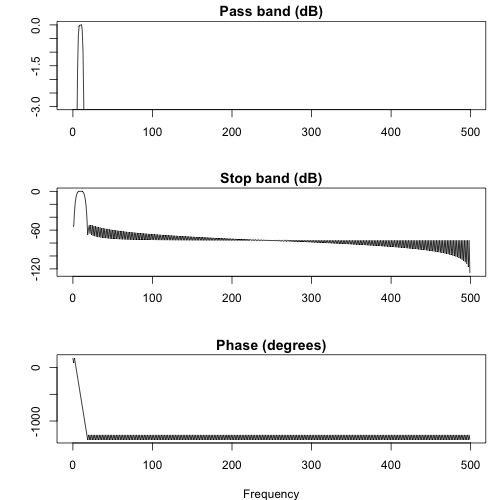
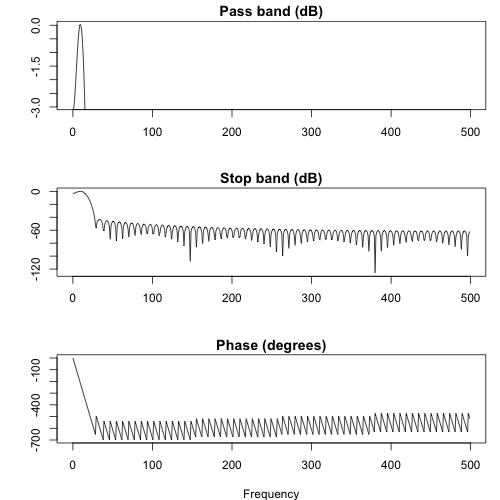
Add fir filter

diff --git a/signal_processing/fir_filter/fir_filter.md b/signal_processing/fir_filter/fir_filter.md
@@ -1,1 +1,91 @@
-R言語を用いてFIRフィルターを実装します。基本的な流れはR言語を用いたIIRフィルターの作成と同じです。
+初心者向きにR言語を用いたFIRフィルターの作成方法をまとめました。基本的な流れは[R言語を用いたIIRフィルターの作成](https://qiita.com/hitomecha/items/80d6e3309aa33941cb5e)とほぼ同じです。
+
+## パッケージの準備
+signal パッケージ[1]を使用し、FIRフィルターを作成します。まず、パッケージをインストールします。
+
+```R
+#signalパッケージのダウンロード
+install.packages("signal")
+#ライブラリーの読み込み
+library("signal")
+```
+
+## 入力データの準備
+入力データは10Hzと50Hzの正弦波の合成波を使用します。
+
+```R
+#入力データの作成（周波数が10Hzと50Hzのサイン波のデータの合成、サンプリング周波数：1kHz、１０秒間のデータ）
+time <- seq(from=0, by=1/1000, length=10000) #時間軸
+data <- sin(2*pi*10*time) + sin(2*pi*50*time)
+#入力データの図示
+plot(time, data, t="l", xlim=c(1, 1.5))
+```
+
+<img src="https://qiita-image-store.s3.amazonaws.com/0/293436/ba610be0-f14a-761c-e13e-4656e1a3682c.png" width=50%>
+
+上図より、2つの周波数の合成波になっています。また、周波数解析を行うと、
+
+```R
+data_fft <- fft(data)
+data_psd <- abs(data_fft)^2
+plot_fft <- seq(from=1/10000, by=1000/10000, to=500)
+#入力データの周波数特性の図示
+plot(plot_fft, data_psd[1:(length(data_psd)/2)], t="l", log="x", xlab="frequency (Hz)", ylab="PSD (1/Hz)")
+```
+<img src="https://qiita-image-store.s3.amazonaws.com/0/293436/c415c59a-4cfa-117f-0958-da7c01fcb98d.png" width=50%>
+
+ピークが2つ（10Hzと50Hz）になっていることがわかります。
+
+## FIRフィルターの設計
+今回はFIRフィルターを実装するために、signalパッケージのfir1()を使用します。5〜15Hzを通すバンドパスフィルターを実装します。
+
+```R
+#バンドパスフィルタの設計
+#FIRフィルターの各パラメータ
+fil_N <- 128 #フィルターの次数
+fs <- 1000  #サンプリング周波数
+fn <- fs/2  #ナイキスト周波数
+fc <- c(5,15) #帯域通過周波数
+fc_norm <- fc/fn  #周波数の正規化
+
+fir_filter <- fir1(fil_N, fc_norm, type="pass")
+```
+
+fir1()では、帯域周波数をナイキスト周波数で割った正規化周波数を使います。typeは、pass, low, high, stopの指定により、様々な種類のフィルターを実装できます。
+
+## フィルター特性の確認
+```R
+freqz(fir_filter, Fs=fs)  #フィルター特性の図示
+```
+
+<img src="https://qiita-image-store.s3.amazonaws.com/0/293436/204628bc-a5d9-7a80-d73b-fc88484a268b.png" width=70%>
+
+5〜15Hzのバンドパスフィルターを設計できました。
+
+
+## 設計したフィルターを入力データに通す
+
+```R
+#設計したフィルターを入力データに適応
+data_fil <- filtfilt(fir_filter, data)
+```
+
+フィルターによる位相遅れを防ぐためにfiltfilt()を使用し、順方向と逆方向の両方の処理を行うゼロ位相デジタルフィルター処理を実装します。
+
+## フィルターを通したデータの確認
+
+```R
+#フィルターを通したデータの図示
+plot(time, data_fil, t="l", xlim=c(1, 1.5))
+#周波数特性の図示
+data_fft <- fft(data_fil)
+data_psd <- abs(data_fft)^2
+plot(plot_fft, data_psd[1:(length(data_psd)/2)], t="l", log="x", xlab="frequency (Hz)", ylab="PSD (1/Hz)")
+```
+
+<img src="https://qiita-image-store.s3.amazonaws.com/0/293436/b078c3d8-b1a3-6718-93ca-e9006517f10d.png" width=50%><img src="https://qiita-image-store.s3.amazonaws.com/0/293436/6007a42c-da36-bab5-65fc-1bb5dc442b49.png" width=50%>
+
+フィルターにより50Hz成分がなくなりました。
+
+### 参考文献
+[1] Uwe Ligges et al. "Signal Processing", ver. 0.7-6, https://cran.r-project.org/web/packages/signal/signal.pdf, 参照July 7, 2018.
